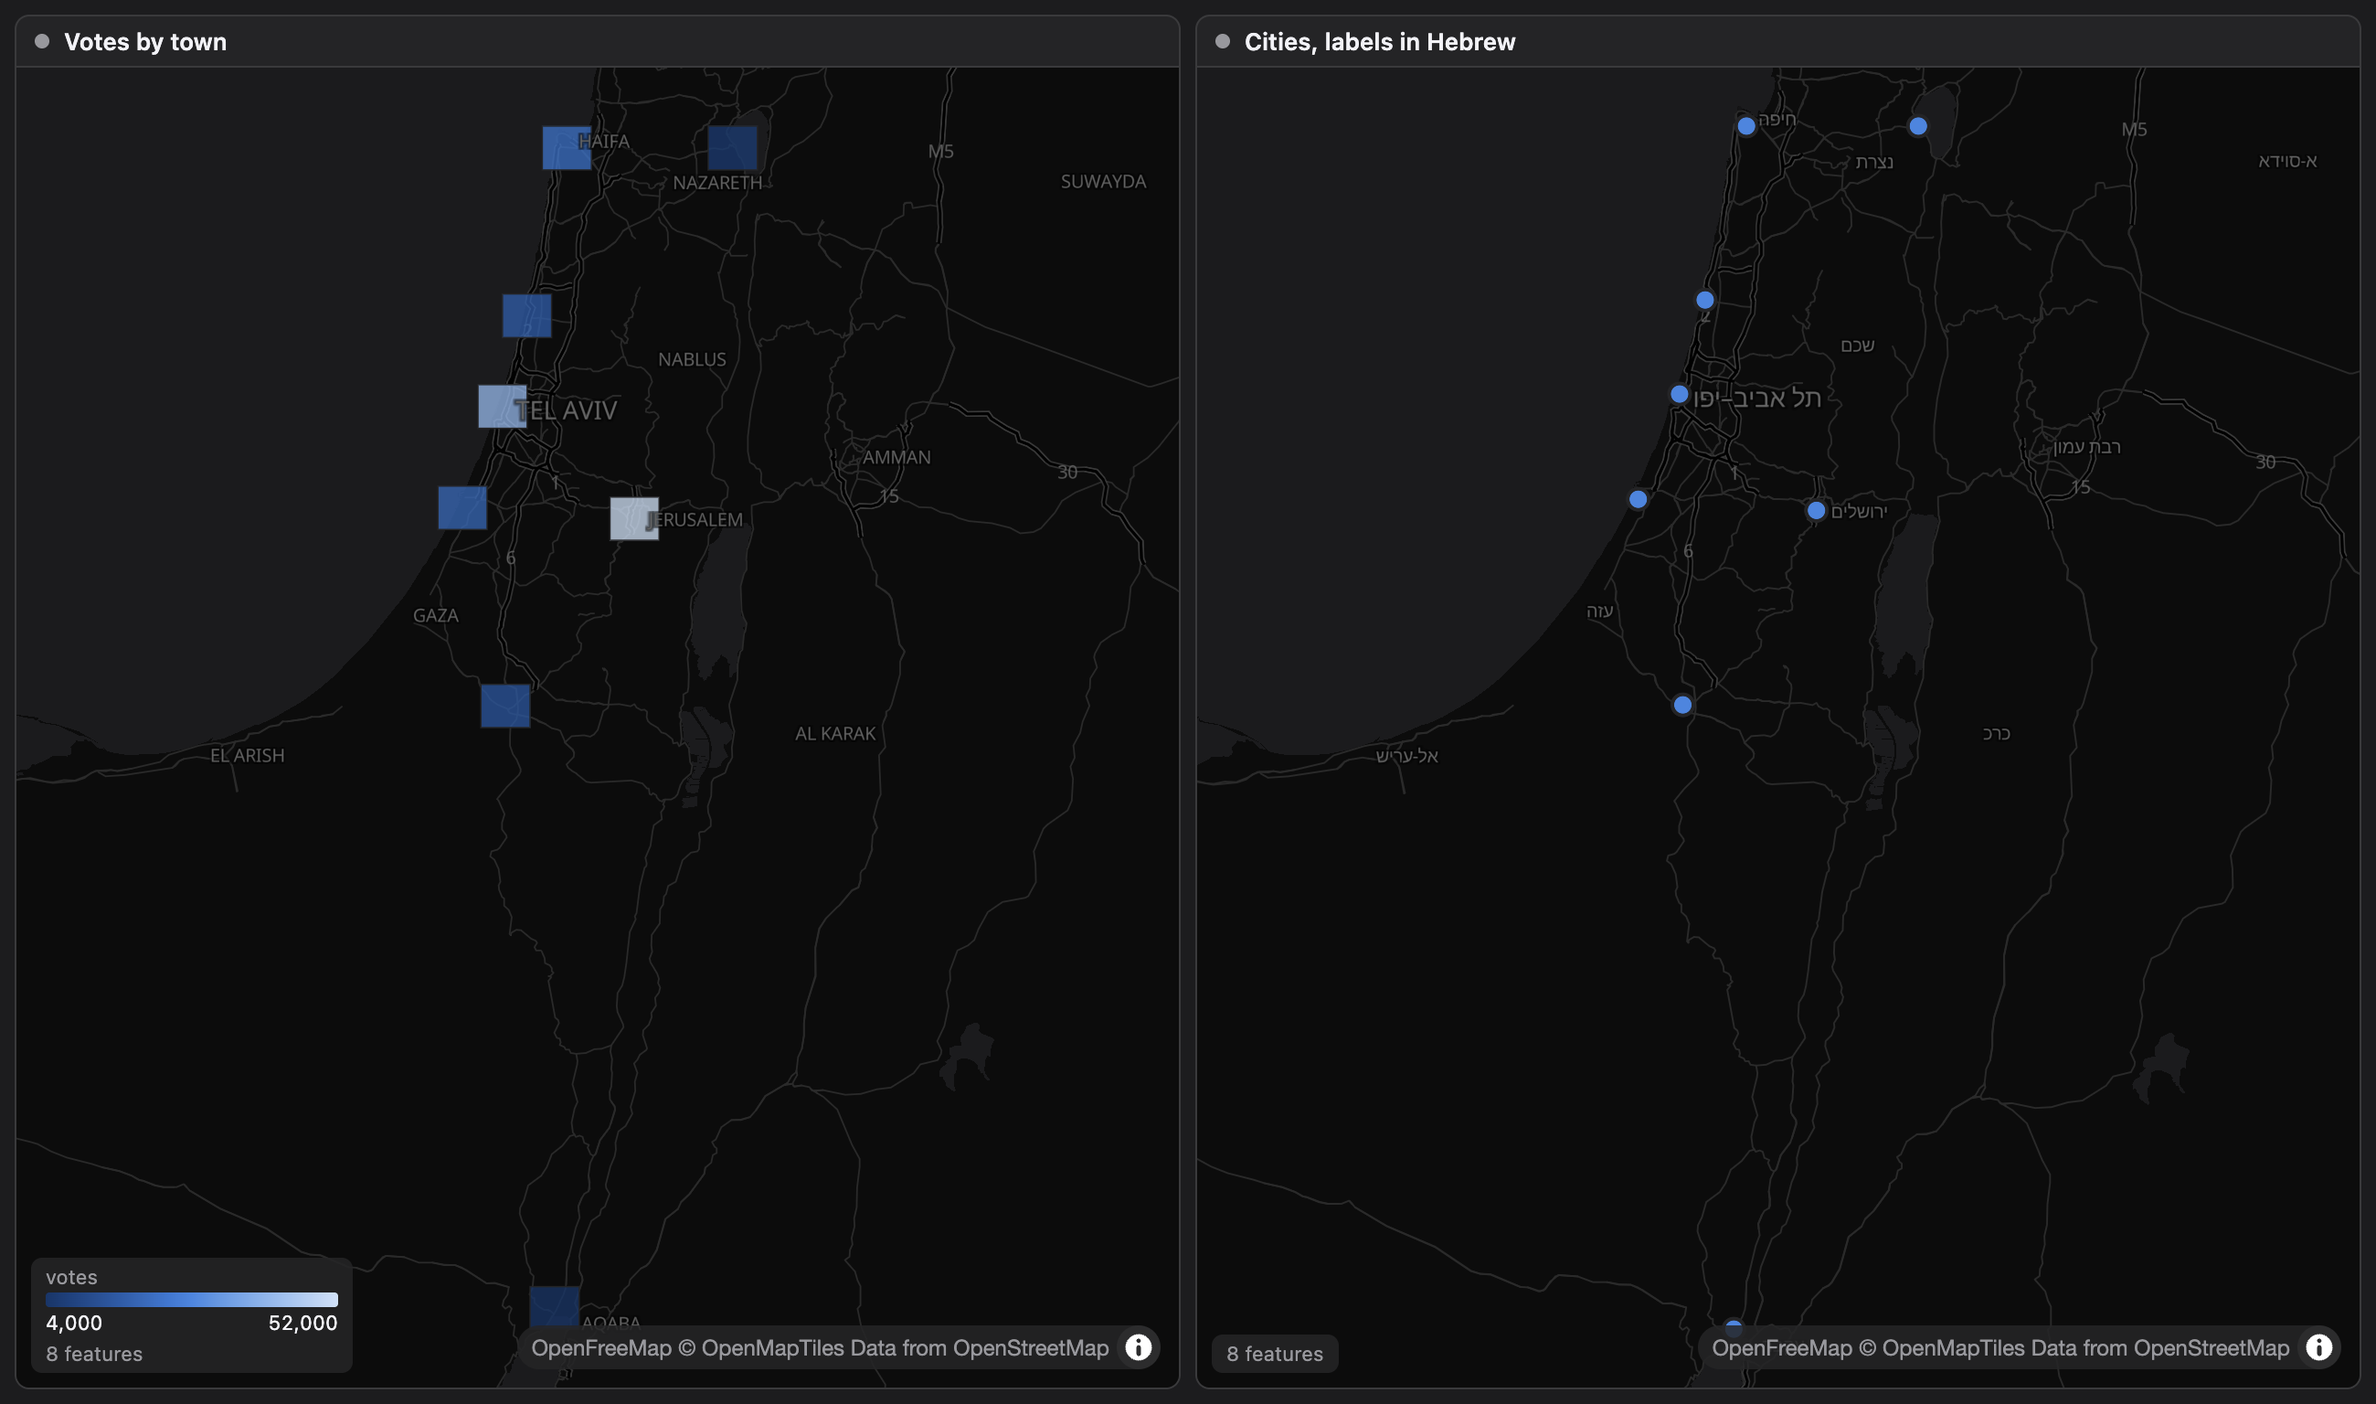
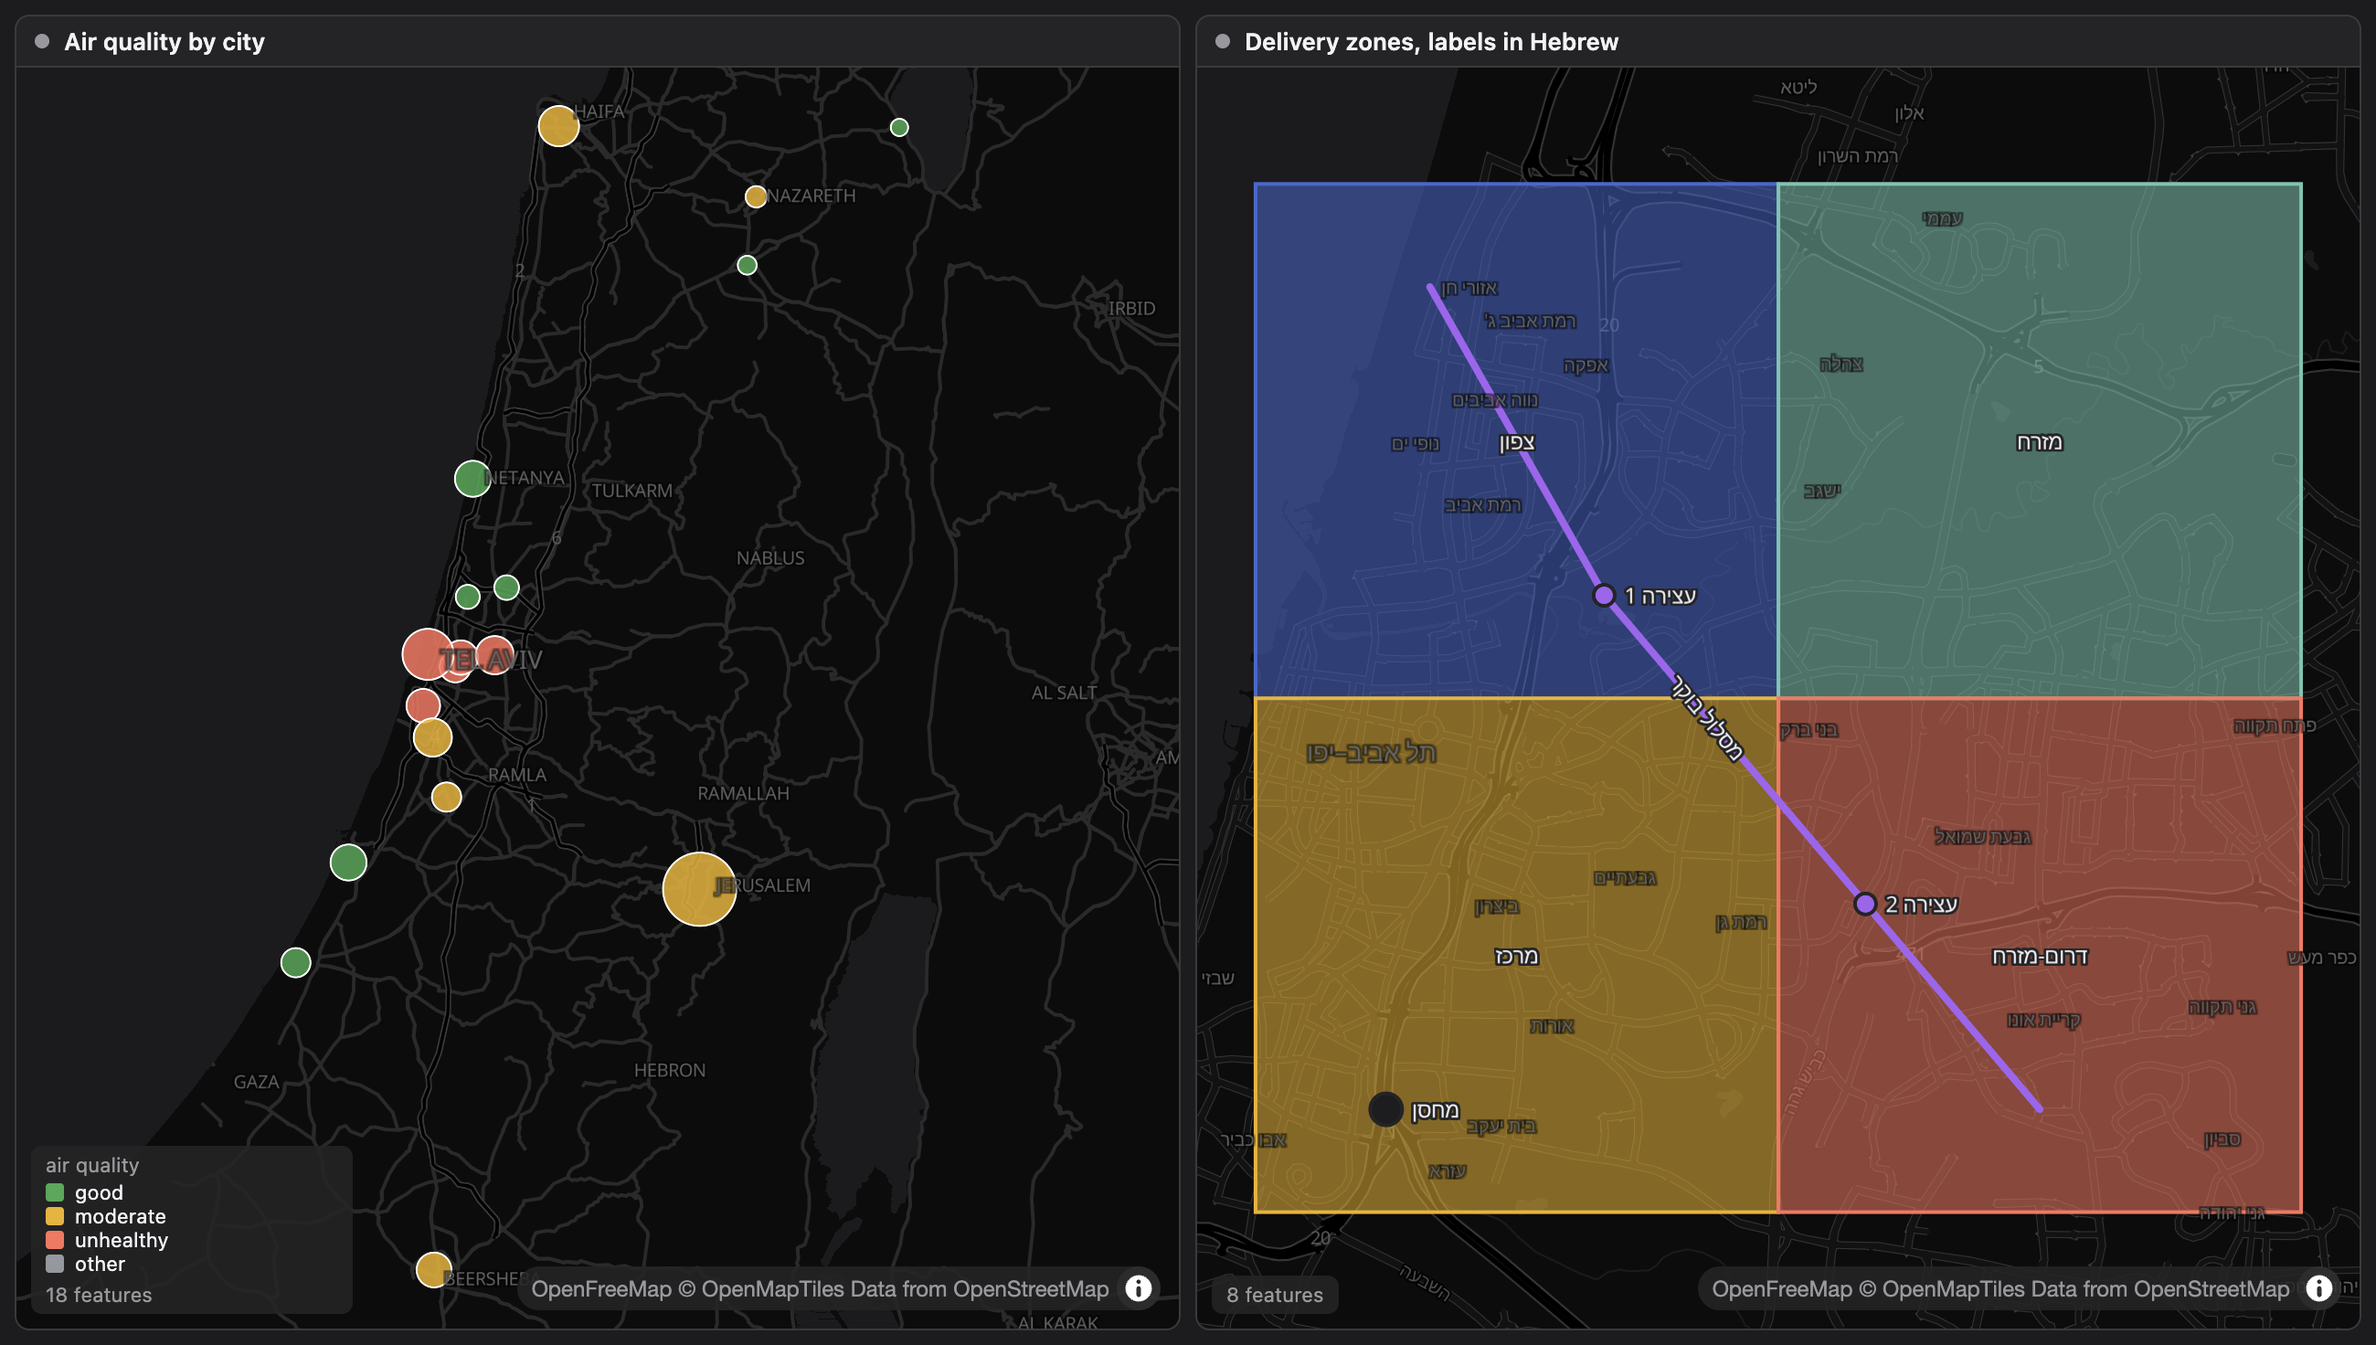
docs: record the map styling tiers, and show MapLibre in a custom view
- views.md: a custom view example that runs MapLibre GL 5 from esm.sh with
  an OpenFreeMap style; version 6 can't start its module worker in the
  custom frame, where only classic workers start
- DESIGN.md: the map row, the styling tiers (feature properties,
  map.layers, custom views), and why base maps have names
- new map screenshots: a legend read from a layer's match, and zones with
  their own colors and Hebrew labels

diff --git a/DESIGN.md b/DESIGN.md
@@ -52,7 +52,7 @@ agent's shell:  cmd | tapet -c <addr> ──localhost HTTP──────┘
   - calls that session's background process through a small internal HTTP API: `GET /attach`, a long-lived stream that keeps the session live while it's open, and `POST /rpc`.
 - **Version mismatch:** only a change to the internal protocol version counts, not every release. When `tapet mcp` finds a running app speaking another version, tool calls fail with "quit tapet (Cmd-Q) and retry".
 - **Security:** localhost only, per-session tokens. Requests carrying an `Origin` header are refused, which keeps browsers out. Each channel token belongs to exactly one session.
-- **Network allowlist:** the window and custom views load only from a fixed list of hosts (`NETWORK_HOSTS`: `tiles.openfreemap.org` for base maps; `cdn.jsdelivr.net`, `unpkg.com` and `esm.sh` for packages custom views import). Their content security policies are generated from the list at build time, and a map's `base_map` must be on an allowed host. The list grows deliberately, one host at a time.
+- **Network allowlist:** the window and custom views load only from a fixed list of hosts (`NETWORK_HOSTS`: `tiles.openfreemap.org` for base maps; `cdn.jsdelivr.net`, `unpkg.com` and `esm.sh` for packages custom views import). Their content security policies are generated from the list at build time, and a map's `base_map` URL must be on an allowed host. The list grows deliberately, one host at a time.
 - **tapet's home** is `~/.tapet`, or `TAPET_HOME`, which isolates tests. It holds the control socket (`app.sock`, a named pipe on Windows), `logs/`, the downloaded `electron/`, `preferences.json`, today's token use (`usage.json`), and Electron's own data (`app-data/`). The single-instance lock is therefore per home.
 - **Electron binary:** tapet downloads it itself (with `@electron/get`, cached) rather than relying on the `electron` package's install script, which pnpm 10 skips. `tapet setup` downloads in the foreground. If Electron is missing, tool calls reply with the setup command and the agent runs it; downloading inside a tool call would hit MCP timeouts.
 - **Everything is HTTP,** so remote agents can come later without a redesign.
@@ -112,18 +112,26 @@ Tapet tracks two more properties internally:
 
 ### Views
 
-| View       | Shows            | Notes                                                                                                                                                                                                                                                                                                                                                  |
-| ---------- | ---------------- | ------------------------------------------------------------------------------------------------------------------------------------------------------------------------------------------------------------------------------------------------------------------------------------------------------------------------------------------------------ |
-| `log`      | lines            | Terminal colors (ANSI), a search box, follow.                                                                                                                                                                                                                                                                                                          |
-| `table`    | rows             | Columns from `table.columns`, or from the CSV header or the fields in order of first appearance. Local sorting, virtual scrolling.                                                                                                                                                                                                                     |
-| `chart`    | series           | Two engines: **uPlot** (`chart.y`, `x`, `series`, `type`: line, area, bar or points) for large time series, and **Vega-Lite** with a full spec for everything else, fed through a dataset named `tapet`. Vega's expressions run in vega-interpreter, so the window needs no eval.                                                                      |
-| `graph`    | nodes and edges  | cosmos.gl for every size: a force layout on the GPU, or a hierarchical one (dagre, up to 3,000 nodes). cosmos.gl draws no labels, so tapet draws them on top. Picked by benchmark; see [Graph library](#graph-library).                                                                                                                                |
-| `map`      | GeoJSON features | Built on MapLibre. Each item carries geometry and values; the agent joins them before piping. Base map: OpenFreeMap by default (positron, or dark in dark mode), configurable per panel. MapLibre 6 draws right-to-left text itself, so there's no RTL plugin. The agent sets the label language; the default is English, falling back to local names. |
-| `document` | one document     | The agent declares the content type: markdown (with Mermaid, code highlighting and math), html, text or image. HTML is sanitized (no scripts) and rendered in a shadow root, so its styles stay inside it.                                                                                                                                             |
-| `gauge`    | one value        | A big number, a dial or a bar, with optional min/max and thresholds.                                                                                                                                                                                                                                                                                   |
-| `custom`   | anything         | Agent-written JavaScript module on a DOM, 2D canvas or WebGL surface, in a sandboxed frame without an origin, loaded from its own page with its own content security policy. Through the bridge it gets the panel's items, live updates, settings and size; there are no queries in v1. It may import packages from the allowed hosts only.            |
+| View       | Shows            | Notes                                                                                                                                                                                                                                                                                                                                                                                                            |
+| ---------- | ---------------- | ---------------------------------------------------------------------------------------------------------------------------------------------------------------------------------------------------------------------------------------------------------------------------------------------------------------------------------------------------------------------------------------------------------------- |
+| `log`      | lines            | Terminal colors (ANSI), a search box, follow.                                                                                                                                                                                                                                                                                                                                                                    |
+| `table`    | rows             | Columns from `table.columns`, or from the CSV header or the fields in order of first appearance. Local sorting, virtual scrolling.                                                                                                                                                                                                                                                                               |
+| `chart`    | series           | Two engines: **uPlot** (`chart.y`, `x`, `series`, `type`: line, area, bar or points) for large time series, and **Vega-Lite** with a full spec for everything else, fed through a dataset named `tapet`. Vega's expressions run in vega-interpreter, so the window needs no eval.                                                                                                                                |
+| `graph`    | nodes and edges  | cosmos.gl for every size: a force layout on the GPU, or a hierarchical one (dagre, up to 3,000 nodes). cosmos.gl draws no labels, so tapet draws them on top. Picked by benchmark; see [Graph library](#graph-library).                                                                                                                                                                                          |
+| `map`      | GeoJSON features | Built on MapLibre. Each item carries geometry and values; the agent joins them before piping. Base map: OpenFreeMap's `light` (positron) or `dark` by name, the theme's when unset, another style URL, or none. MapLibre 6 draws right-to-left text itself, so there's no RTL plugin. The agent sets the label language; the default is English, falling back to local names. Styling comes in tiers; see below. |
+| `document` | one document     | The agent declares the content type: markdown (with Mermaid, code highlighting and math), html, text or image. HTML is sanitized (no scripts) and rendered in a shadow root, so its styles stay inside it.                                                                                                                                                                                                       |
+| `gauge`    | one value        | A big number, a dial or a bar, with optional min/max and thresholds.                                                                                                                                                                                                                                                                                                                                             |
+| `custom`   | anything         | Agent-written JavaScript module on a DOM, 2D canvas or WebGL surface, in a sandboxed frame without an origin, loaded from its own page with its own content security policy. Through the bridge it gets the panel's items, live updates, settings and size; there are no queries in v1. It may import packages from the allowed hosts only.                                                                      |
 
 OpenFreeMap is the default base map because the Google tile endpoint used in the election app isn't a public API, and OpenStreetMap's tile policy rules out heavy use by apps. The base map is **neutral by default**: no country or region borders or names unless the panel sets `map.borders`, so tapet takes no side where borders are disputed. Every OpenStreetMap-based provider shows the same borders, so the choice of provider doesn't change this; the style does.
+
+**Map styling** opens up in tiers, the way charts do with a Vega-Lite spec:
+
+- **Feature properties:** a feature can carry simplestyle-spec properties (`marker-color`, `marker-size`, `fill`, `stroke` and their widths and opacities), plus tapet's `sort-key` for draw order and `label`. They win over the panel's colors. The agent sets them while it joins its data, so most maps need no other settings.
+- **MapLibre layers:** `map.layers` replaces tapet's layers with the agent's, for expressions, heatmaps and extrusions. tapet sets each layer's id and source, and core checks the layers with MapLibre's own style validator, so a mistake fails the call with its path. The legend lists `map.legend`, or the categories of a layer's `match` on a property.
+- **Custom views:** MapLibre GL 5 runs in a custom view, imported from a package CDN. Version 6 doesn't: its worker is an ES module, and module workers don't start in the custom frame, which has no origin; classic workers do. Version 6 there would need tapet to host MapLibre in the frame, e.g. as a `surface: "map"`. That waits for an agent that needs it.
+
+Base maps have names so a map's colors don't change with the app's theme: party colors chosen for a light map lost contrast when the base map followed dark mode. The panel's labels sit above the base map's labels, so they win collisions. Without a base map, labels are drawn in the window's font, so `base_map: false` stays offline.
 
 Other view settings:
 

diff --git a/packages/cli/docs/views.md b/packages/cli/docs/views.md
@@ -176,3 +176,40 @@ panel_create({ id: "flow", title: "Flow", format: "ndjson", update: "append", vi
 - The theme's variables (`--tapet-fg`, `--tapet-series-1`, …) are set inside the frame. The window's and the panel's CSS don't reach it.
 - Changing `custom.code` or `custom.surface` runs the new code in a fresh frame. Other settings reach it through `onSettings`.
 - An error the code throws while it starts fails the `panel_create` or `panel_update` that ran it. Later errors come back as notices and show in the panel.
+- Classic workers start in the frame, e.g. from a `blob:` URL; module workers don't. So MapLibre GL 5 runs in a custom view, and version 6, whose worker is a module, doesn't.
+- For a map beyond the map view, e.g. MapLibre's full API, pipe GeoJSON features into a custom view:
+
+  ```js
+  import maplibregl from 'https://esm.sh/maplibre-gl@5'
+  // MapLibre 5 needs this plugin for Hebrew and Arabic labels.
+  maplibregl.setRTLTextPlugin(
+    'https://unpkg.com/@mapbox/mapbox-gl-rtl-text@0.3.0/dist/mapbox-gl-rtl-text.js',
+    true,
+  )
+  const css = 'https://esm.sh/maplibre-gl@5/dist/maplibre-gl.css'
+  document.head.append(
+    Object.assign(document.createElement('link'), { rel: 'stylesheet', href: css }),
+  )
+  const map = new maplibregl.Map({
+    container: tapet.root,
+    style: 'https://tiles.openfreemap.org/styles/positron',
+    center: [35, 31.8],
+    zoom: 7,
+  })
+  const features = () => ({
+    type: 'FeatureCollection',
+    features: tapet.entries().map((entry) => entry.value),
+  })
+  map.on('load', () => {
+    map.addSource('items', { type: 'geojson', data: features() })
+    map.addLayer({
+      id: 'items',
+      type: 'circle',
+      source: 'items',
+      paint: { 'circle-color': '#e41a1c', 'circle-radius': 6 },
+    })
+    tapet.onChange(() => map.getSource('items').setData(features()))
+  })
+  ```
+
+  The style shows as published: unlike the map view's, it keeps country borders and names.
